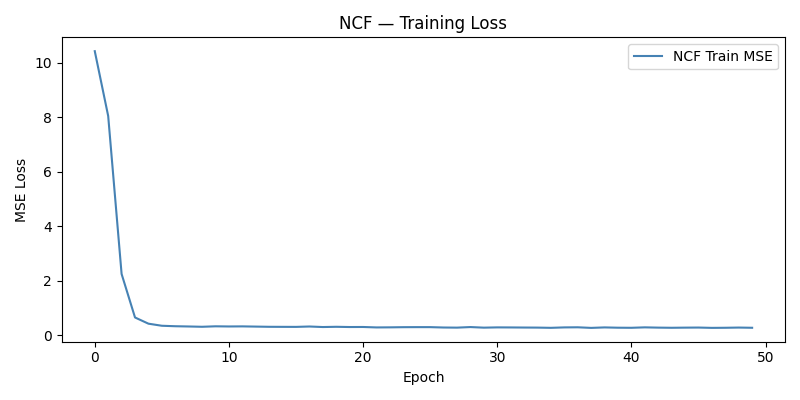
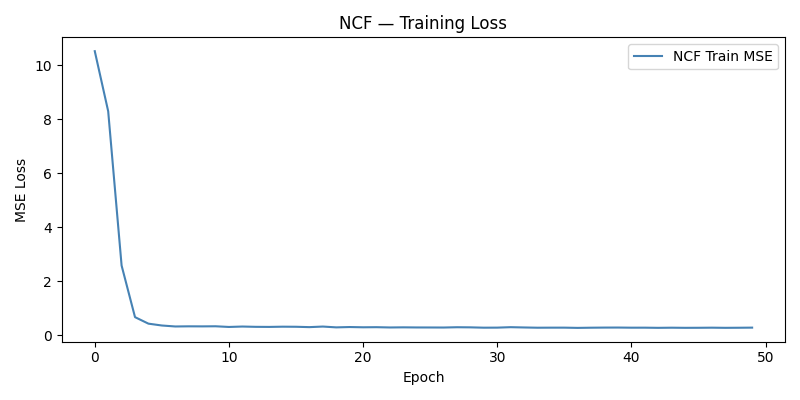
fixing bugs

diff --git a/MLtasks/tasks/recsys_lvl2_ncf/task.py b/MLtasks/tasks/recsys_lvl2_ncf/task.py
@@ -189,11 +189,12 @@ def train(model, train_loader, cfg, device):
         for u_b, i_b, r_b in train_loader:
             u_b, i_b, r_b = u_b.to(device), i_b.to(device), r_b.to(device)
             optimizer.zero_grad()
-            criterion(model(u_b, i_b), r_b).backward()
+            loss = criterion(model(u_b, i_b), r_b)
+            loss.backward()
             optimizer.step()
-            total  += criterion(model(u_b, i_b).detach(), r_b).item()
+            total  += loss.item()
             n_bat  += 1
-        avg = total / n_bat
+        avg = total / n_bat if n_bat > 0 else 0.0
         loss_history.append(avg)
         if (epoch + 1) % 10 == 0:
             print(f"    Epoch [{epoch+1}/{epochs}]  MSE: {avg:.4f}")

diff --git a/MLtasks/tasks/recsys_lvl1_matrix_factorization/task.py b/MLtasks/tasks/recsys_lvl1_matrix_factorization/task.py
@@ -169,7 +169,7 @@ def build_model(cfg):
 
 def train(model, train_loader, cfg, device):
     """
-    Standard epoch loop with Adam + MSELoss.
+    Standard epoch loop with AdamW + MSELoss.
     Returns list of per-epoch training losses.
     """
     model.to(device)
@@ -193,7 +193,7 @@ def train(model, train_loader, cfg, device):
             optimizer.step()
             total  += loss.item()
             n_bat  += 1
-        avg = total / n_bat
+        avg = total / n_bat if n_bat > 0 else 0.0
         loss_history.append(avg)
         if (epoch + 1) % 10 == 0:
             print(f"    Epoch [{epoch+1}/{epochs}]  MSE: {avg:.4f}")
